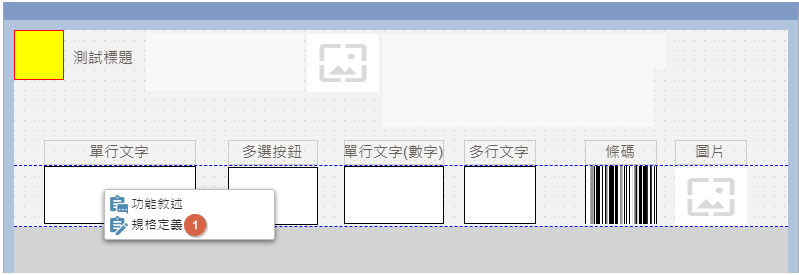
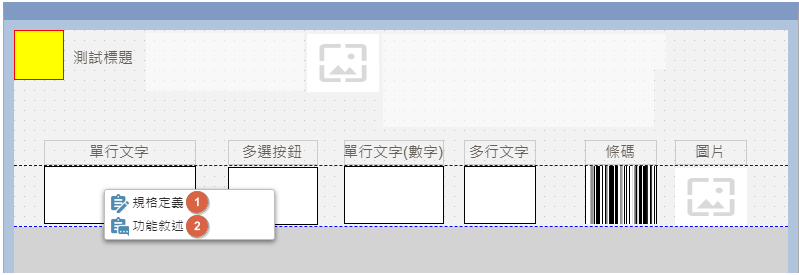
8.10.1 本版異動: ITEM_2:報表規格定義

Changed region(s): [[0.1202, 0.6982, 0.2703, 0.8727]]

diff --git a/8.10.1/UPDATE/ITEM_2/IDE/SpecificationsReport/README.md b/8.10.1/UPDATE/ITEM_2/IDE/SpecificationsReport/README.md
@@ -17,11 +17,15 @@
         * 用途說明
         * 規格說明
             * 依專案語系顯示: 報表名稱_報表料號
-    * `(2)規格描述`
+    * `(2)規格備註`
         * 用途說明
         * 規格說明
-            * 參考 `(8)規格描述區塊`, 當節點支援雙擊，則致能; 否則 除能
-            * 當致能時,  執行動作可開啟[規格備註][link_specification]
+            * 當駐留節點項目為【報表名稱_報表成品料號、基本設定、資料來源、分頁模式、報表元件名稱_元件料號】按鈕致能, 否則 除能
+            * 當致能時,  執行按鈕時, 依駐留節點開啟對應的[規格備註][link_specification]
+                * 若駐留節點項目為【報表名稱_報表成品料號、基本設定、資料來源、分頁模式】, 開啟後傳入報表名稱、報表料號
+                * 若駐留節點項目為【報表元件名稱_元件料號】, 開啟後傳入報表元件名稱、報表元件料號
+        * 動作流程
+            * ![pic][image_flow_open_spec]
     * `(3)檢錯`
         * 用途說明
             * 檢查報表及報表元件已完成的規格, 進行語法及完成度的檢查
@@ -29,26 +33,36 @@
             * 當檢查完成, 且無錯誤時, 顯示訊息盒【標題: 系統訊息 / 內容: 檢錯完成。 / 按鍵: 確定】
                 * 執行確定, 關閉表單
             * 當檢查完成, 且存在錯誤時, 展開所有節點, 錯誤單元以紅字顯示, 並以Hint方式顯示第一筆錯誤資訊
+        * 動作流程
+            * ![pic][image_flow_error_detection]
     * `(4)重新整理`
         * 用途說明
         * 規格說明
-            * 重新顯示`(8)規格描述區塊`, 若已駐留節點, 重整後駐留節點不變
+            * 重新顯示`(8)規格描述區塊`, 若已駐留節點, 重整後駐留節點須為原駐留節點
+        * 動作流程
+            * ![pic][image_flow_reflash]
     * `(5)線上說明`
         * 用途說明
         * 規格說明
+            * 當駐留節點項目為【報表名稱_報表成品料號、基本設定、資料來源、分頁模式、報表元件名稱_元件料號】按鈕致能, 否則 除能
             * 依駐留節點開啟對應的線上說明文件
+        * 動作流程
+            * ![pic][image_flow_online_help]
     * `(6)相關元件`
         * 用途說明
         * 規格說明
-            * 當駐留節點為**報表元件單元**時, 則 致能, 否則 除能
+            * 當駐留節點項目為【報表元件名稱_元件料號】按鈕致能, 否則 除能
             * 依駐留報表元件單元, 開啟[元件欄位清單][], 傳入: 報表名稱、報表元件名稱
+        * 動作流程
+            * ![pic][image_flow_components]
     * `(7)加註狀態`
         * 用途說明
             * 記錄該表單是否加註完成的標記
         * 規格說明
-            * 當狀態為**開工**時, 執行按鍵將狀態改為**完工**, 並顯示完成圖示: ![pic][image_report_annotation_finish]
-            * 當狀態為**完工**時, 執行按鍵將狀態改為**開工**, 並顯示開工圖示: ![pic][image_report_annotation_start]
-        * 作業流程
+            * 當狀態為**開工**時, 執行按鍵將狀態改為**完工**, 顯示完成圖示: ![pic][image_report_annotation_finish]
+            * 當狀態為**完工**時, 執行按鍵將狀態改為**開工**, 顯示開工圖示: ![pic][image_report_annotation_start]
+        * 動作流程
+            * ![pic][image_flow_annotation_state]
     * `(8)規格描述區塊`
         * 用途說明
         * 規格說明
@@ -56,20 +70,24 @@
                 * 節點內有子階時, 節點圖示為資料夾, 並可展開/關閉子階內容
                 * 節點內無子階時, 節點圖示為文件
                 * 各階層顯示內容如下
-                    |顯示內容 |所屬階層 |筆數 |支援雙擊 |排序方式 |顯示語系來源 |
-                    |--------|---------|-----|---------|--------|-----------|
-                    |報表名稱_報表成品料號 |0 |1| | |專案 |
+                    |節點顯示內容 |所屬階層 |筆數 |支援雙擊 |同階排序方式 |顯示語系來源 |
+                    |------------|--------|-----|--------|------------|-----------|
+                    |報表名稱_報表成品料號 |0 |1|v | |專案 |
                     |基本設定      |1 |1 |v | |平台 |
                     |資料來源      |1 |1 |v | |平台 |
                     |分頁模式      |1 |1 |v | |平台 |
                     |報表元件      |1 |1 | | |平台 |
                     |報表元件名稱_元件料號 |2 |n |v |依單元料號 |專案 |
             * 當駐留節點支援雙擊, 則執行滑鼠雙擊時, 可開啟[規格備註][link_specification]
+                * 若駐留節點項目為【報表名稱_報表成品料號、基本設定、資料來源、分頁模式】, 開啟後傳入報表名稱、報表料號
+                * 若駐留節點項目為【報表元件名稱_元件料號】, 開啟後傳入報表元件名稱、報表元件料號
             * 依駐留節點類別+元件類別, 單擊開啟對應加註頁面, 顯示於`(9)加註頁面區塊`
+        * 動作流程
+            * ![pic][image_flow_annotation]
     * `(9)加註頁面區塊`
         * 用途說明
         * 規格說明
-
+            * 依駐留節點類別+元件類別, 顯示對應的規格定義內容
 
 
 <!-- 圖片 -->
@@ -78,6 +96,13 @@
 [image_report_annotation_start]:attachment/ReportAnnotation_Start.png
 [image_report_annotation_finish]:attachment/ReportAnnotation_Finish.png
 
+[image_flow_open_spec]:attachment/SpecificationsReportFlow_open_spec.png
+[image_flow_error_detection]:attachment/SpecificationsReportFlow_error_detection.png
+[image_flow_reflash]:attachment/SpecificationsReportFlow_reflash.png
+[image_flow_online_help]:attachment/SpecificationsReportFlow_online_help.png
+[image_flow_components]:attachment/SpecificationsReportFlow_components.png
+[image_flow_annotation_state]:attachment/SpecificationsReportFlow_annotation_state.png
+[image_flow_annotation]:attachment/SpecificationsReportFlow_annotation.png
 
 <!-- 超連結 -->
 [link_fieldbreak1]:#fieldbreak1 "欄位說明/基本"

diff --git a/8.10.1/UPDATE/ITEM_2/IDE/Report/README.md b/8.10.1/UPDATE/ITEM_2/IDE/Report/README.md
@@ -10,30 +10,52 @@
     * `(1)規格定義`
         * 用途說明
         * 規格說明
+            * Hint: 規格定義
             * 執行開啟[報表規格定義][link_report_annotation], 開啟後, 固定駐留節點:基本設定
+        * 動作流程
+            * ![pic][image_reportflow_toolbar_open_annotation]
     * `(2)儲存`
         * 用途說明
         * 規格說明
+            * 將畫面已設定完成的內容進行儲存
             * 執行完成，重載報表版面，載入完成後顯示訊息盒【標題: 系統訊息 / 訊息內容: 儲存完成 若已開啟該報表規定義, 請至規格定義執行重新整理】，限時: 3秒，系統自動關閉訊息盒
                 * 版面區塊 XY軸位置不變
+        * 動作流程
+            * ![pic][image_reportflow_save_report]
 
 * <p id="fieldbreak2" style="color:blue;font-weight:bold">主畫面_版面區塊說明</p>
 
     * ![pic][image_report_block2]
+    * **版面物件操作說明**
+        * 駐留物件=報表元件, 執行右鍵, 顯示右鍵選單 (樣式如上圖所示)
+            * 選單順序: 規格定義、規格描述
     * `(1)規格定義`
         * 用途說明
         * 規格說明
             * 當駐留物件執行右鍵, 且 報表元件類型存在【rTP.文字標題、rTF.文字方塊、rTA.多行文字、rCB.核取方塊、rFrame.框線、rBC.條碼、rEChart.嵌入圖表、rImg.圖片、rLogo.企業標誌】顯示, 否則 隱藏
             * 執行開啟[報表規格定義][link_report_annotation], 開啟後, 駐留節點=目前駐留的報表元件
+        * 動作流程
+            * ![pic][image_reportflow_object_open_annotation]
+    * `(2)規格備註`
+        * 用途說明
+        * 規格說明
+            * 開啟[規格備註][link_specification], 傳入: 報表元件名稱、報表料號
+        * 動作流程
+            * ![pic][image_reportflow_object_open_spec]
 
 
 <!-- 圖片 -->
 [image_report]:attachment/Report.png
 [image_report_block1]:attachment/Report_block1.png
 [image_report_block2]:attachment/Report_block2.png
+[image_reportflow_toolbar_open_annotation]:attachment/ReportFlow_toolbar_open_annotation.png
+[image_reportflow_save_report]:attachment/ReportFlow_save_report.png
+[image_reportflow_object_open_annotation]:attachment/ReportFlow_object_open_annotation.png
+[image_reportflow_object_open_spec]:attachment/ReportFlow_object_open_spec.png
 
 <!-- 超連結 -->
 [link_fieldbreak1]:#fieldbreak1 "欄位說明/基本"
 
 [link_report_annotation]:../ReportAnnotation/README "報表規格定義"
 [link_ruleother1]:/8.10.1/IDE/Specification/RulesOther/README#ruleother1 "共用通則_其它/版面資訊通則"
+[link_specification]:/8.10.1/IDE/Specification/SpecificationRemarks/README "規格備註"
